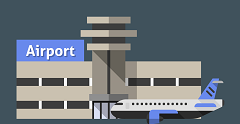
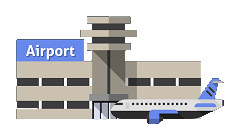
Edificios transparentes

diff --git a/src/components/Pages/CityRoad/index.js b/src/components/Pages/CityRoad/index.js
@@ -42,19 +42,16 @@ class CityRoad extends Component {
             <Grid centered textAlign="center" verticalAlign="bottom">
               <Grid.Column mobile={10} tablet={5} computer={5}>
                 <div data-to="/police" onClick={this.moveCar} className="text-center">
-                  <div className="policeName">{currentCity.police}</div>
                   <img src="./images/police.png" alt="police department" />
                 </div>
               </Grid.Column>
               <Grid.Column mobile={10} tablet={5} computer={5}>
                 <div data-to="/airport" onClick={this.moveCar} className="text-center">
-                  <div className="policeName">Airport</div>
                   <img src="./images/airport.png" alt="Airport" />
                 </div>
               </Grid.Column>
               <Grid.Column mobile={10} tablet={5} computer={5}>
                 <div data-to="/get-money" onClick={this.moveCar} className="text-center">
-                  <div className="policeName">Casino</div>
                   <img src="./images/casino.png" alt="casino" />
                 </div>
               </Grid.Column>

diff --git a/src/components/Pages/Police/index.js b/src/components/Pages/Police/index.js
@@ -59,7 +59,7 @@ class Police extends Component {
       <Fragment>
         <Header />
         <Container>
-          <h1 className="text-center">Welcome to the {currentCity.name} police department</h1>
+          <h1 className="text-center">Welcome to the {currentCity.police}</h1>
 
           <Grid centered>
             <Grid.Column mobile={16} tablet={8} computer={5}>

diff --git a/src/data/cities.js b/src/data/cities.js
@@ -57,10 +57,6 @@ export const CITIES = [
         label: 'Vatican',
         img: 'images/cities/rom_vatican.jpg',
       },
-      {
-        label: 'Temple of Jupiter',
-        img: 'images/cities/retiro.jpg',
-      },
     ],
   },
   {
